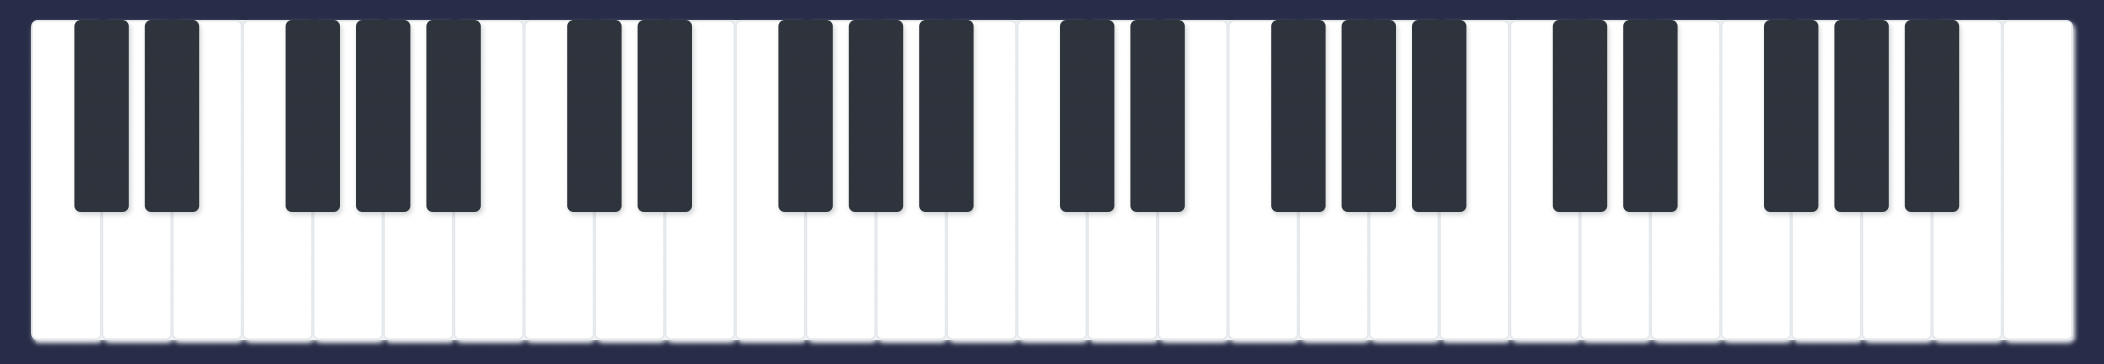
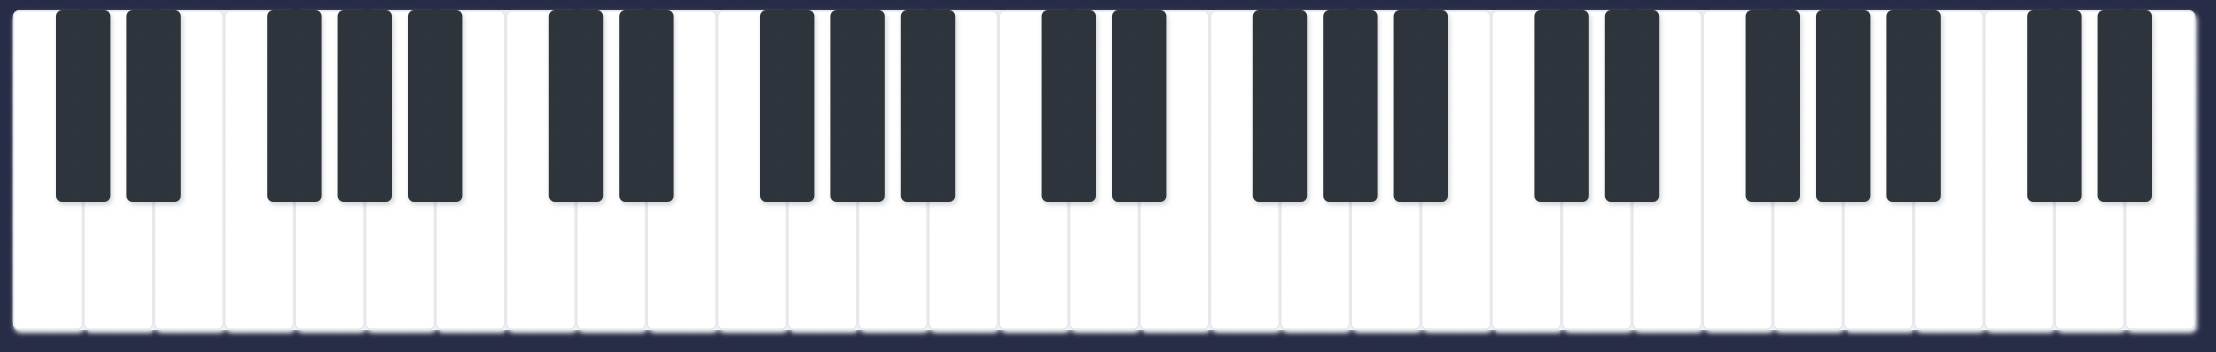
..

diff --git a/README.md b/README.md
@@ -62,21 +62,21 @@ the *Go Practice!* button in the upper right corner.
 Here we design a game to help you check the knowledge you 
 have learned more easily :)
 
-- The keyboard is remained on the top, expanding the register to C2-C6 
+- The keyboard is remained on the top, expanding the register to C2-E6 
 as a reference.
 <p align="center">
 <img src="readme-images/keyboard-2.png" width="300">
 </p>
 
 - Then you could start the game in PRACTICE box below. Click *Practice* 
-button to start. Notes appear randomly on the staff corresponding to 
+button to start. Here is the instruction:\
+Notes appear randomly on the staff corresponding to 
 treble and bass clef. You could input your answer through keyboard on
-your computer. Here is the instruction:
-
+your computer or click the virtual keyboard above. \
 You have five seconds to answer each note.
 When the progress bar of the timer reaches the end, the time is up.
 A reminder will appear after press each key to tell you whether it is correct.
 <p align="center">
-<img src="readme-images/practice-box.png" width="170">
-
+<img src="readme-images/practice-box.png" width="150">
+<img src="readme-images/right.png" width="300">
 </p>
